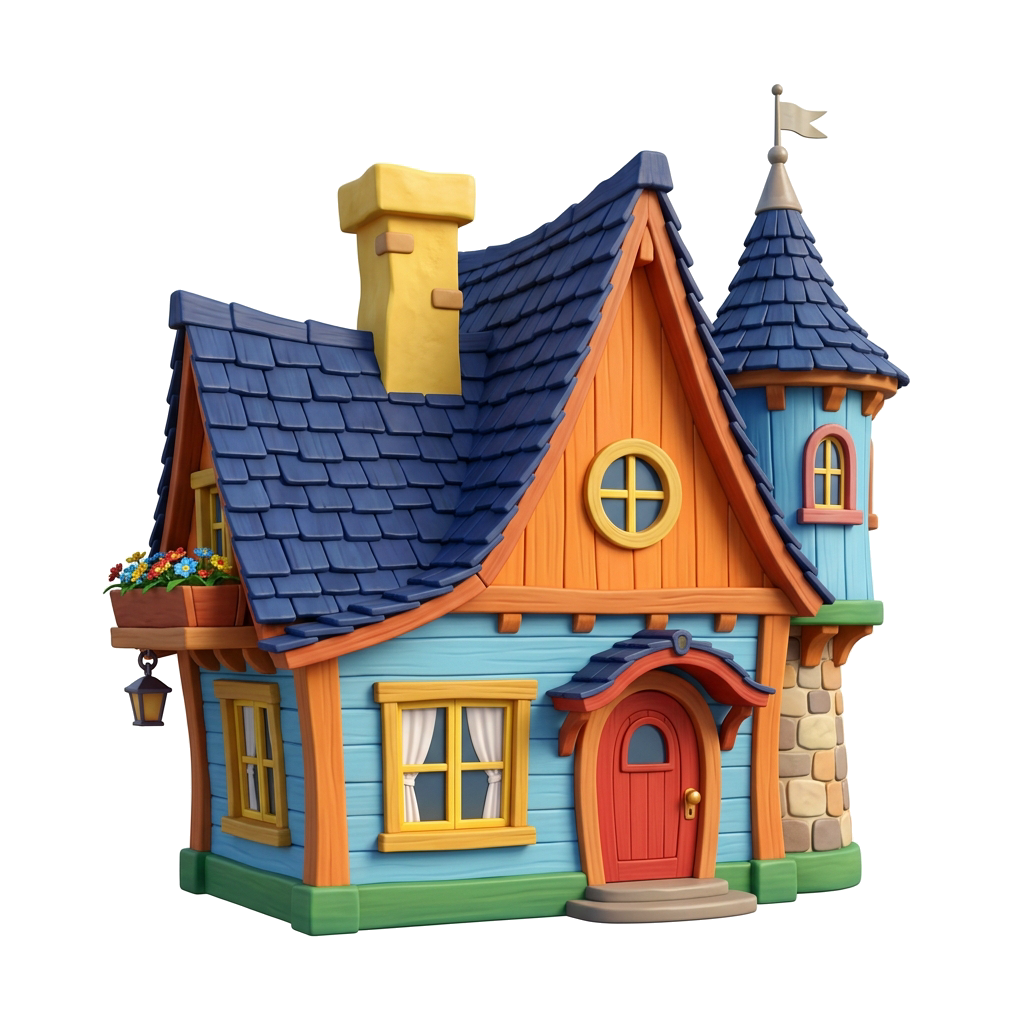
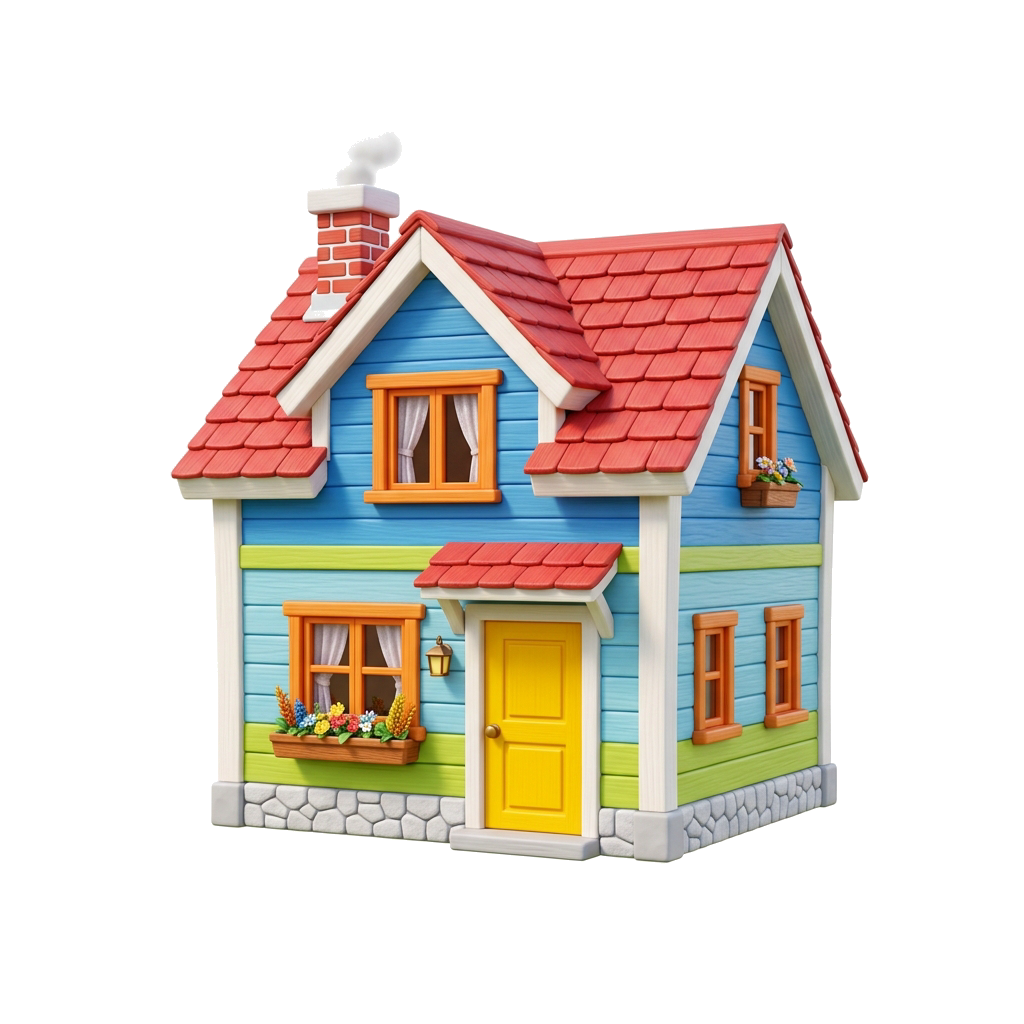
Replace props with faceless objects and remove old ones

diff --git a/index.html b/index.html
@@ -80,9 +80,6 @@
             <img src="/assets/prop_tree.png" class="draggable-element w-full aspect-square object-contain rounded-lg cursor-grab hover:bg-gray-100 transition p-2 border border-gray-100" draggable="true" data-type="character">
             <img src="/assets/prop_house.png" class="draggable-element w-full aspect-square object-contain rounded-lg cursor-grab hover:bg-gray-100 transition p-2 border border-gray-100" draggable="true" data-type="character">
             <img src="/assets/prop_car.png" class="draggable-element w-full aspect-square object-contain rounded-lg cursor-grab hover:bg-gray-100 transition p-2 border border-gray-100" draggable="true" data-type="character">
-            <img src="/assets/prop_cloud.png" class="draggable-element w-full aspect-square object-contain rounded-lg cursor-grab hover:bg-gray-100 transition p-2 border border-gray-100" draggable="true" data-type="character">
-            <img src="/assets/prop_sun.png" class="draggable-element w-full aspect-square object-contain rounded-lg cursor-grab hover:bg-gray-100 transition p-2 border border-gray-100" draggable="true" data-type="character">
-            <img src="/assets/prop_bush.png" class="draggable-element w-full aspect-square object-contain rounded-lg cursor-grab hover:bg-gray-100 transition p-2 border border-gray-100" draggable="true" data-type="character">
           </div>
         </section>
 